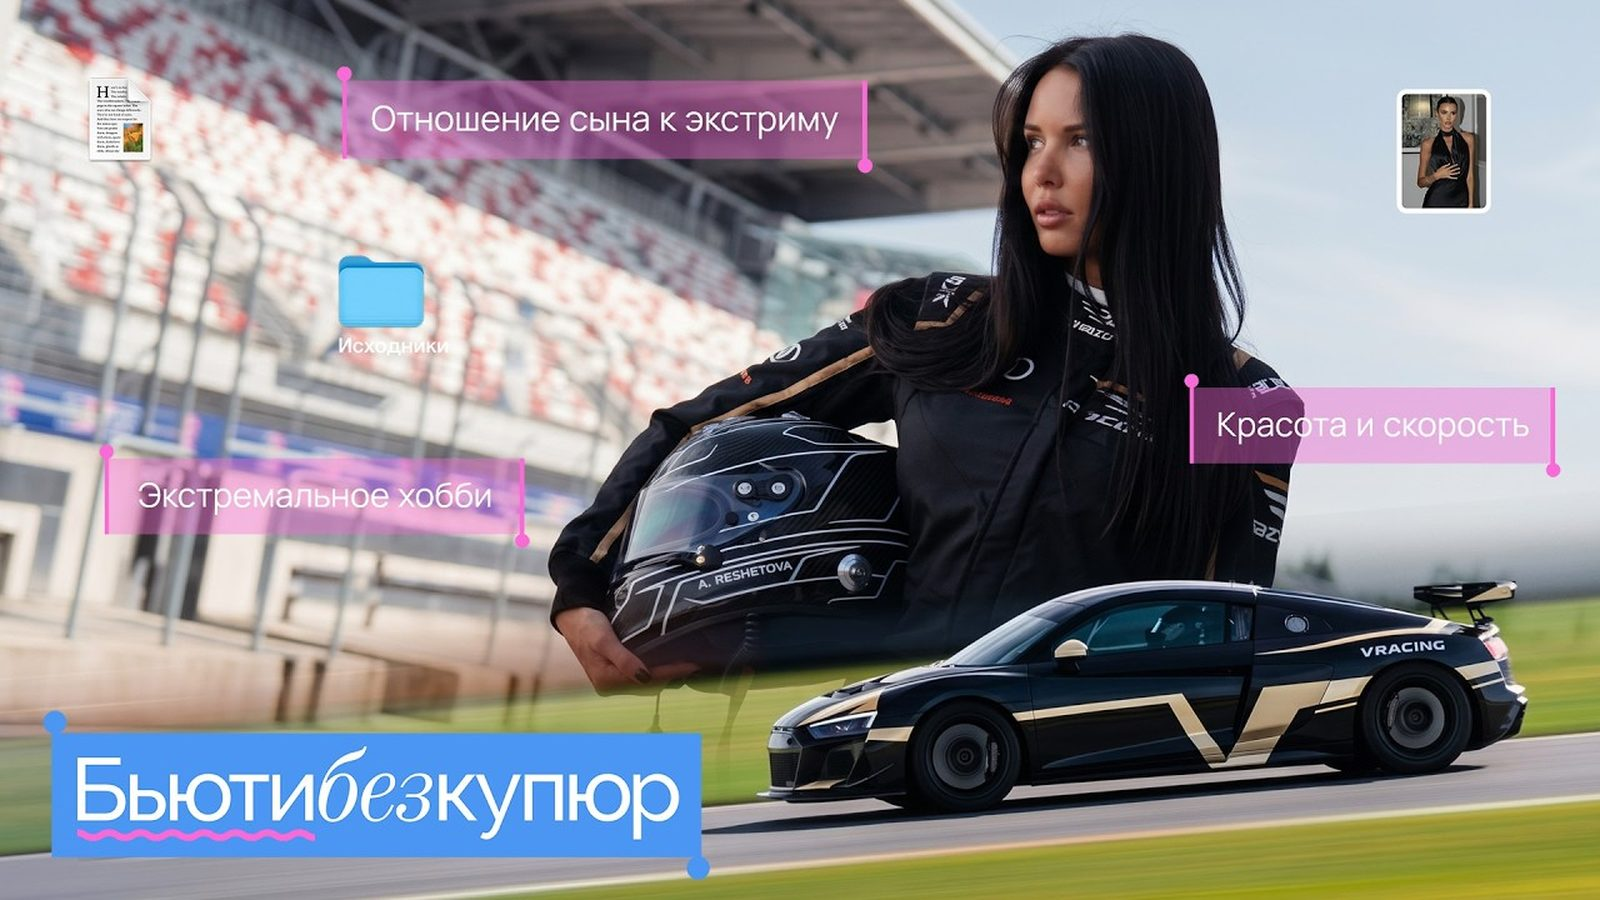
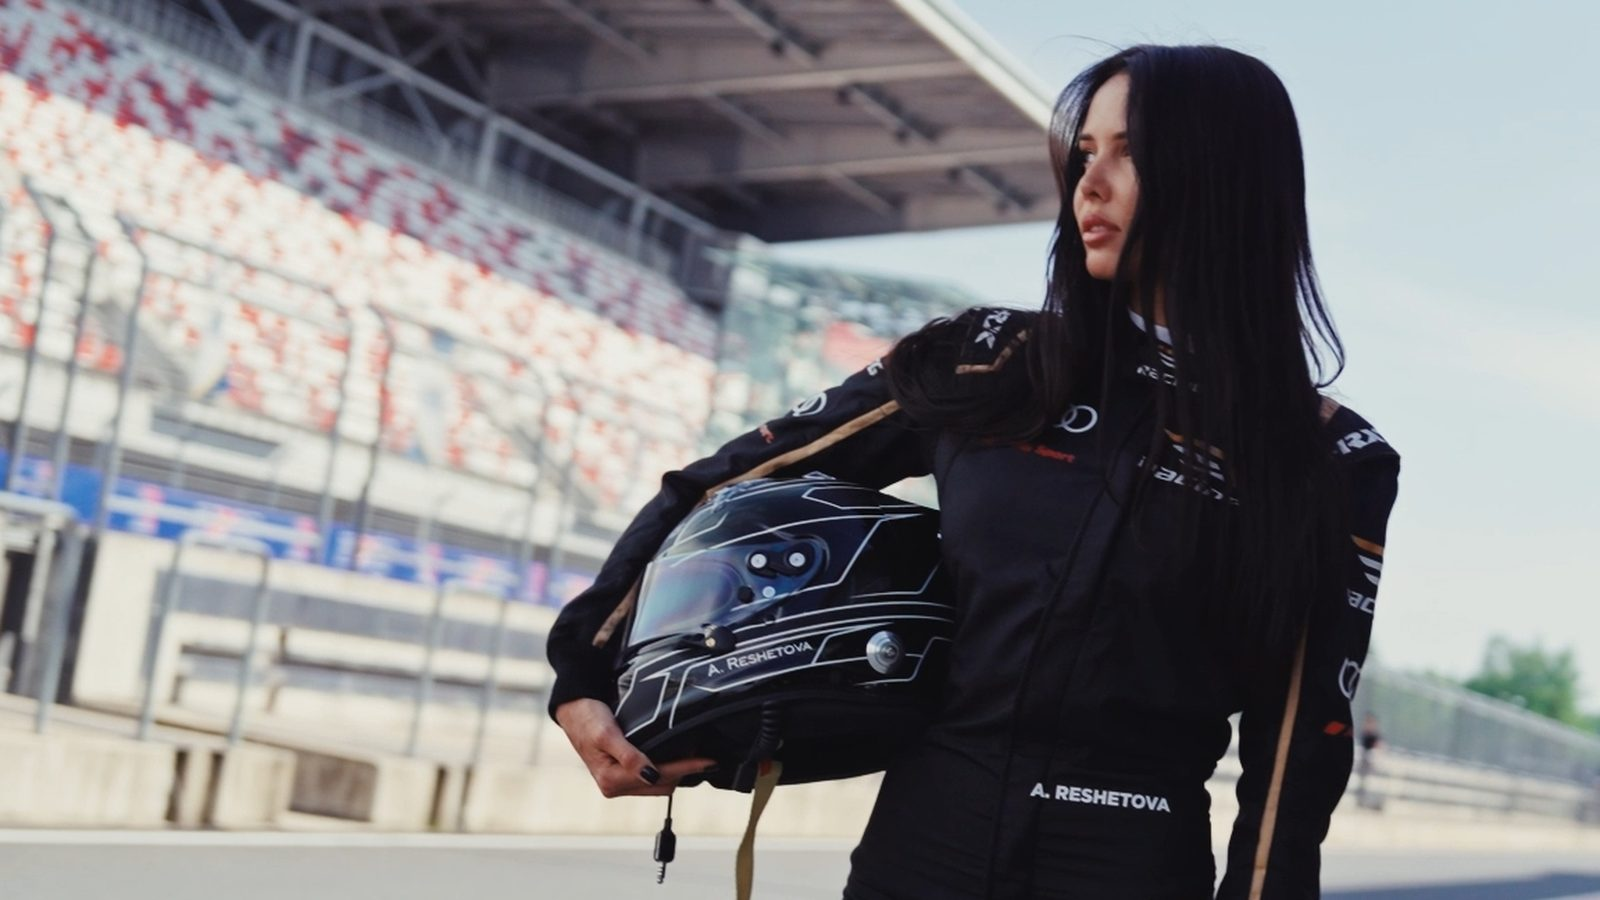
Решетова влог: новая обложка, героиня красная и правее, надпись слева; Бьюти без купюр: кадр сдвинут
Claude-Session: https://claude.ai/code/session_01Qo9VwUVFzJqu7E8YznFKai

diff --git a/work/reshetova-moscow-raceway/index.html b/work/reshetova-moscow-raceway/index.html
@@ -34,7 +34,7 @@
 <p class="cat">03 · YouTube</p>
 <h1>Решетова влог с Moscow Raceway</h1>
 </section>
-<div class="wrap"><div class="player" data-src="https://www.youtube-nocookie.com/embed/zXEPpnWTKvQ?rel=0&amp;modestbranding=1&amp;autoplay=1" data-title="Решетова влог с Moscow Raceway"><button class="poster" type="button" aria-label="Смотреть: Решетова влог с Moscow Raceway"><img src="../../assets/img/reshetova.jpg?v=b49004fa" alt="" decoding="async"><img class="alt" src="../../assets/img/reshetova-color.jpg?v=97f08066" alt="" decoding="async"><span class="play" aria-hidden="true"><svg viewBox="0 0 24 24"><path d="M8 5.5v13l11-6.5z"/></svg></span></button><noscript><iframe src="https://www.youtube-nocookie.com/embed/zXEPpnWTKvQ?rel=0&amp;modestbranding=1" title="Решетова влог с Moscow Raceway" allow="autoplay; fullscreen; picture-in-picture; encrypted-media; gyroscope; accelerometer; clipboard-write; screen-wake-lock" allowfullscreen></iframe></noscript></div></div>
+<div class="wrap"><div class="player" data-src="https://www.youtube-nocookie.com/embed/zXEPpnWTKvQ?rel=0&amp;modestbranding=1&amp;autoplay=1" data-title="Решетова влог с Moscow Raceway"><button class="poster" type="button" aria-label="Смотреть: Решетова влог с Moscow Raceway"><img src="../../assets/img/reshetova.jpg?v=08c3dede" alt="" decoding="async"><img class="alt" src="../../assets/img/reshetova-color.jpg?v=7deeea83" alt="" decoding="async"><span class="play" aria-hidden="true"><svg viewBox="0 0 24 24"><path d="M8 5.5v13l11-6.5z"/></svg></span></button><noscript><iframe src="https://www.youtube-nocookie.com/embed/zXEPpnWTKvQ?rel=0&amp;modestbranding=1" title="Решетова влог с Moscow Raceway" allow="autoplay; fullscreen; picture-in-picture; encrypted-media; gyroscope; accelerometer; clipboard-write; screen-wake-lock" allowfullscreen></iframe></noscript></div></div>
 <section class="wrap">
 
 <nav class="pn" aria-label="Соседние проекты">

diff --git a/work/beauty-bez-kupyur/index.html b/work/beauty-bez-kupyur/index.html
@@ -34,7 +34,7 @@
 <p class="cat">03 · YouTube</p>
 <h1>Бьюти без купюр</h1>
 </section>
-<div class="wrap"><div class="player" data-src="https://www.youtube-nocookie.com/embed/B_NFsDjrGR0?rel=0&amp;modestbranding=1&amp;autoplay=1" data-title="Бьюти без купюр"><button class="poster" type="button" aria-label="Смотреть: Бьюти без купюр"><img src="../../assets/img/beauty.jpg?v=4f3ebfbc" alt="" decoding="async"><img class="alt" src="../../assets/img/beauty-color.jpg?v=631a6614" alt="" decoding="async"><span class="play" aria-hidden="true"><svg viewBox="0 0 24 24"><path d="M8 5.5v13l11-6.5z"/></svg></span></button><noscript><iframe src="https://www.youtube-nocookie.com/embed/B_NFsDjrGR0?rel=0&amp;modestbranding=1" title="Бьюти без купюр" allow="autoplay; fullscreen; picture-in-picture; encrypted-media; gyroscope; accelerometer; clipboard-write; screen-wake-lock" allowfullscreen></iframe></noscript></div></div>
+<div class="wrap"><div class="player" data-src="https://www.youtube-nocookie.com/embed/B_NFsDjrGR0?rel=0&amp;modestbranding=1&amp;autoplay=1" data-title="Бьюти без купюр"><button class="poster" type="button" aria-label="Смотреть: Бьюти без купюр"><img src="../../assets/img/beauty.jpg?v=f98b8aa9" alt="" decoding="async"><img class="alt" src="../../assets/img/beauty-color.jpg?v=59902009" alt="" decoding="async"><span class="play" aria-hidden="true"><svg viewBox="0 0 24 24"><path d="M8 5.5v13l11-6.5z"/></svg></span></button><noscript><iframe src="https://www.youtube-nocookie.com/embed/B_NFsDjrGR0?rel=0&amp;modestbranding=1" title="Бьюти без купюр" allow="autoplay; fullscreen; picture-in-picture; encrypted-media; gyroscope; accelerometer; clipboard-write; screen-wake-lock" allowfullscreen></iframe></noscript></div></div>
 <section class="wrap">
 
 <nav class="pn" aria-label="Соседние проекты">

diff --git a/index.html b/index.html
@@ -99,14 +99,14 @@ ENERGY</span>
 <span class="sr">Нежный Редактор. Подкаст</span>
 <span class="line" aria-hidden="true"></span>
 </a>
-<a class="card has-cover at-bottom" href="work/reshetova-moscow-raceway/">
-<img src="assets/img/reshetova.jpg?v=b49004fa" alt="" loading="lazy" decoding="async"><img class="alt" src="assets/img/reshetova-color.jpg?v=97f08066" alt="" loading="lazy" decoding="async"><span class="shade" aria-hidden="true"></span><span class="t" aria-hidden="true">РЕШЕТОВА
+<a class="card has-cover at-left" href="work/reshetova-moscow-raceway/">
+<img src="assets/img/reshetova.jpg?v=08c3dede" alt="" loading="lazy" decoding="async"><img class="alt" src="assets/img/reshetova-color.jpg?v=7deeea83" alt="" loading="lazy" decoding="async"><span class="shade" aria-hidden="true"></span><span class="t" aria-hidden="true">РЕШЕТОВА
 ВЛОГ</span>
 <span class="sr">Решетова влог с Moscow Raceway</span>
 <span class="line" aria-hidden="true"></span>
 </a>
 <a class="card has-cover at-bottom" href="work/beauty-bez-kupyur/">
-<img src="assets/img/beauty.jpg?v=4f3ebfbc" alt="" loading="lazy" decoding="async"><img class="alt" src="assets/img/beauty-color.jpg?v=631a6614" alt="" loading="lazy" decoding="async"><span class="shade" aria-hidden="true"></span><span class="t" aria-hidden="true">БЬЮТИ
+<img src="assets/img/beauty.jpg?v=f98b8aa9" alt="" loading="lazy" decoding="async"><img class="alt" src="assets/img/beauty-color.jpg?v=59902009" alt="" loading="lazy" decoding="async"><span class="shade" aria-hidden="true"></span><span class="t" aria-hidden="true">БЬЮТИ
 БЕЗ КУПЮР</span>
 <span class="sr">Бьюти без купюр</span>
 <span class="line" aria-hidden="true"></span>

diff --git a/assets/style.css b/assets/style.css
@@ -90,6 +90,9 @@ img{display:block;max-width:100%}
 .card.at-top .t,.card.at-bottom .t{white-space:pre-line;text-wrap:balance;font-size:clamp(24px,2.9vw,42px);padding:0 16px}
 .card.at-top{align-items:flex-start;padding-top:clamp(14px,2.2vw,28px)}
 .card.at-bottom{align-items:flex-end;padding-bottom:clamp(14px,2.2vw,28px)}
+.card.at-left{justify-content:flex-start}
+.card.at-left .t{text-align:left;padding-left:clamp(16px,2.6vw,32px);max-width:62%}
+.card.at-left .shade{background:linear-gradient(90deg,rgba(6,7,9,.7),rgba(6,7,9,.25) 55%,rgba(6,7,9,.05))}
 .card.at-top .shade{background:linear-gradient(rgba(6,7,9,.7),rgba(6,7,9,.2) 55%,rgba(6,7,9,.1))}
 .card.at-bottom .shade{background:linear-gradient(rgba(6,7,9,.1),rgba(6,7,9,.2) 45%,rgba(6,7,9,.7))}
 .card.has-cover .t{text-shadow:0 2px 6px rgba(0,0,0,.35),0 4px 40px rgba(0,0,0,.55)}
@@ -171,6 +174,7 @@ img{display:block;max-width:100%}
   .card .t.long{font-size:min(10.5cqi,48px)}
   .card.at-top .t,.card.at-bottom .t{font-size:min(10cqi,42px);padding:0 5cqi}
   .card .t.one{font-size:min(8cqi,36px)}
+  .card.at-left .t{padding:0 0 0 6cqi;max-width:62%;font-size:min(9cqi,40px);overflow-wrap:normal}
 }
 
 /* ===== Обо мне: панель справа поверх страницы ===== */

diff --git a/build.py b/build.py
@@ -184,7 +184,7 @@ def card(p, base):
            if p.get("cover_hover") else "")
     bg = (f'<img src="{base}{e(asset(p["cover"]))}" alt="" loading="lazy" decoding="async">{alt}<span class="shade" aria-hidden="true"></span>'
           if p.get("cover") else "")
-    pos = f" at-{p['text_pos']}" if p.get("text_pos") in ("top", "bottom") else ""
+    pos = f" at-{p['text_pos']}" if p.get("text_pos") in ("top", "bottom", "left") else ""
     return f"""<a class="card{tone}{' has-cover' if p.get('cover') else ''}{pos}" href="{base}work/{p['slug']}/">
 {bg}<span class="t{" long" if longest > 14 else ""}{" one" if (pos and "\n" not in p["card"] and len(p["card"]) > 16) else ""}" aria-hidden="true">{e(p["card"])}</span>
 <span class="sr">{e(p['title'])}</span>

diff --git a/README.md b/README.md
@@ -8,7 +8,7 @@
    - `video`: ссылка на YouTube, Vimeo, VK Видео, Rutube или Kinescope — можно вставить и целый код `<iframe>` из Kinescope (плеер встроится сам)
    - `cover`: путь к обложке 16:9, например `assets/img/имя.jpg` (JPG ~1600 px, до 400 Кб). Без обложки карточка будет с крупным названием.
    - `tone`: `red` или `dark`, цвет карточки без обложки
-   - `text_pos`: `top` или `bottom` — поднять/опустить надпись на карточке, если в центре обложки важная деталь
+   - `text_pos`: `top`, `bottom` или `left` — поднять/опустить надпись на карточке, если в центре обложки важная деталь
    - `cover_hover`: необязательный кадр в оригинальных цветах — проявляется при наведении
    - `poster`: необязательная отдельная обложка для плеера на странице проекта (иначе берётся `cover`)
    - `role`, `year`, `text`: необязательные, пустые не показываются
